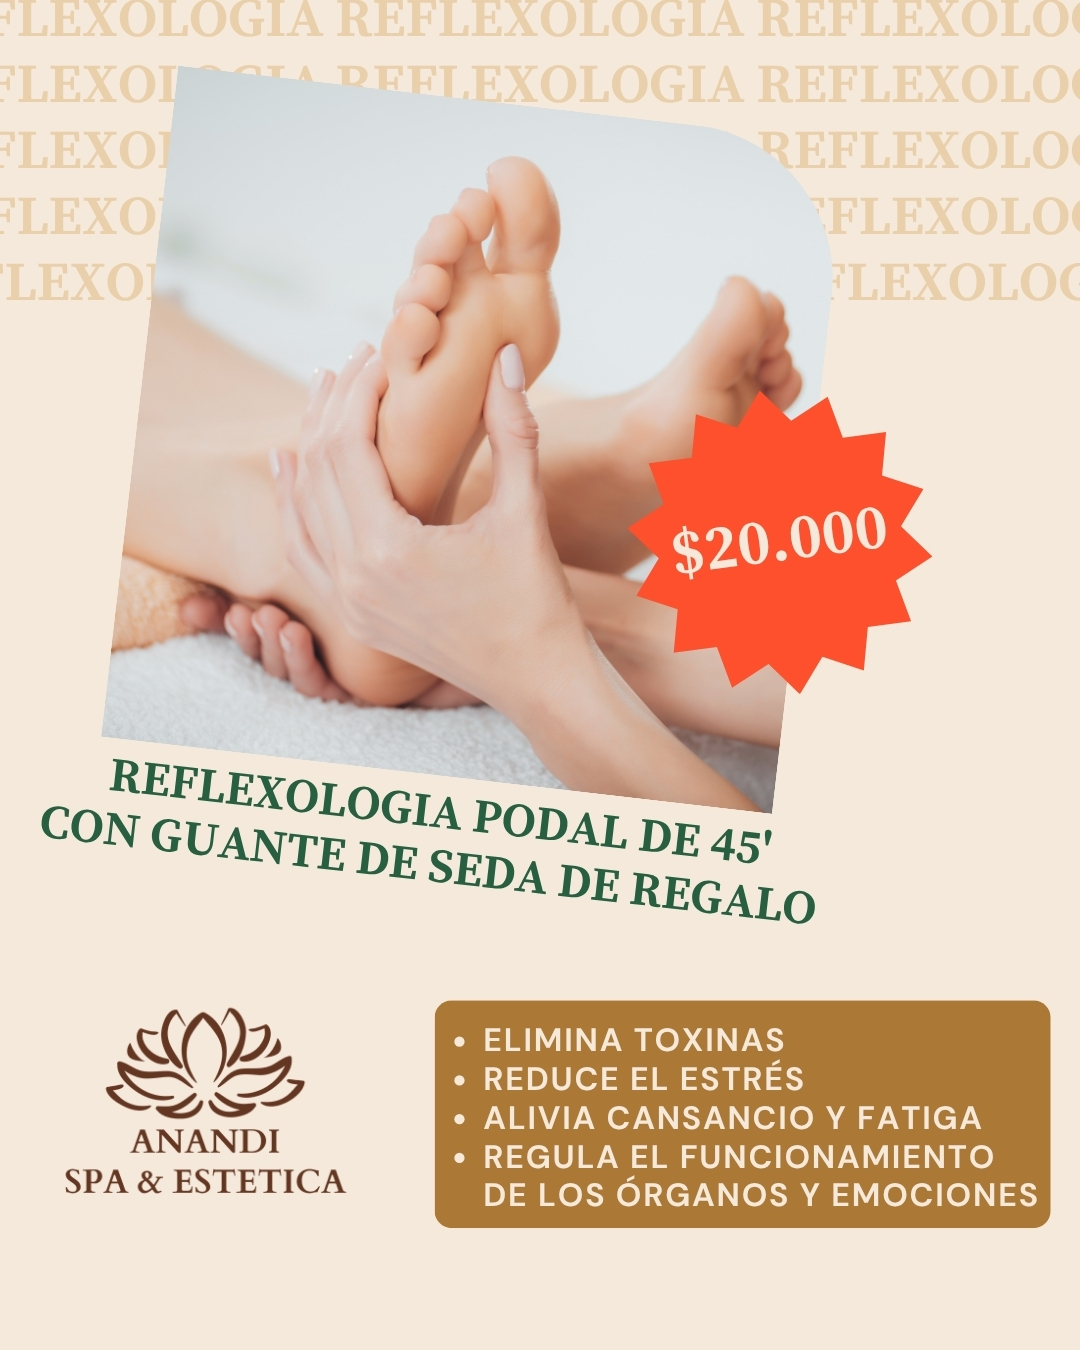
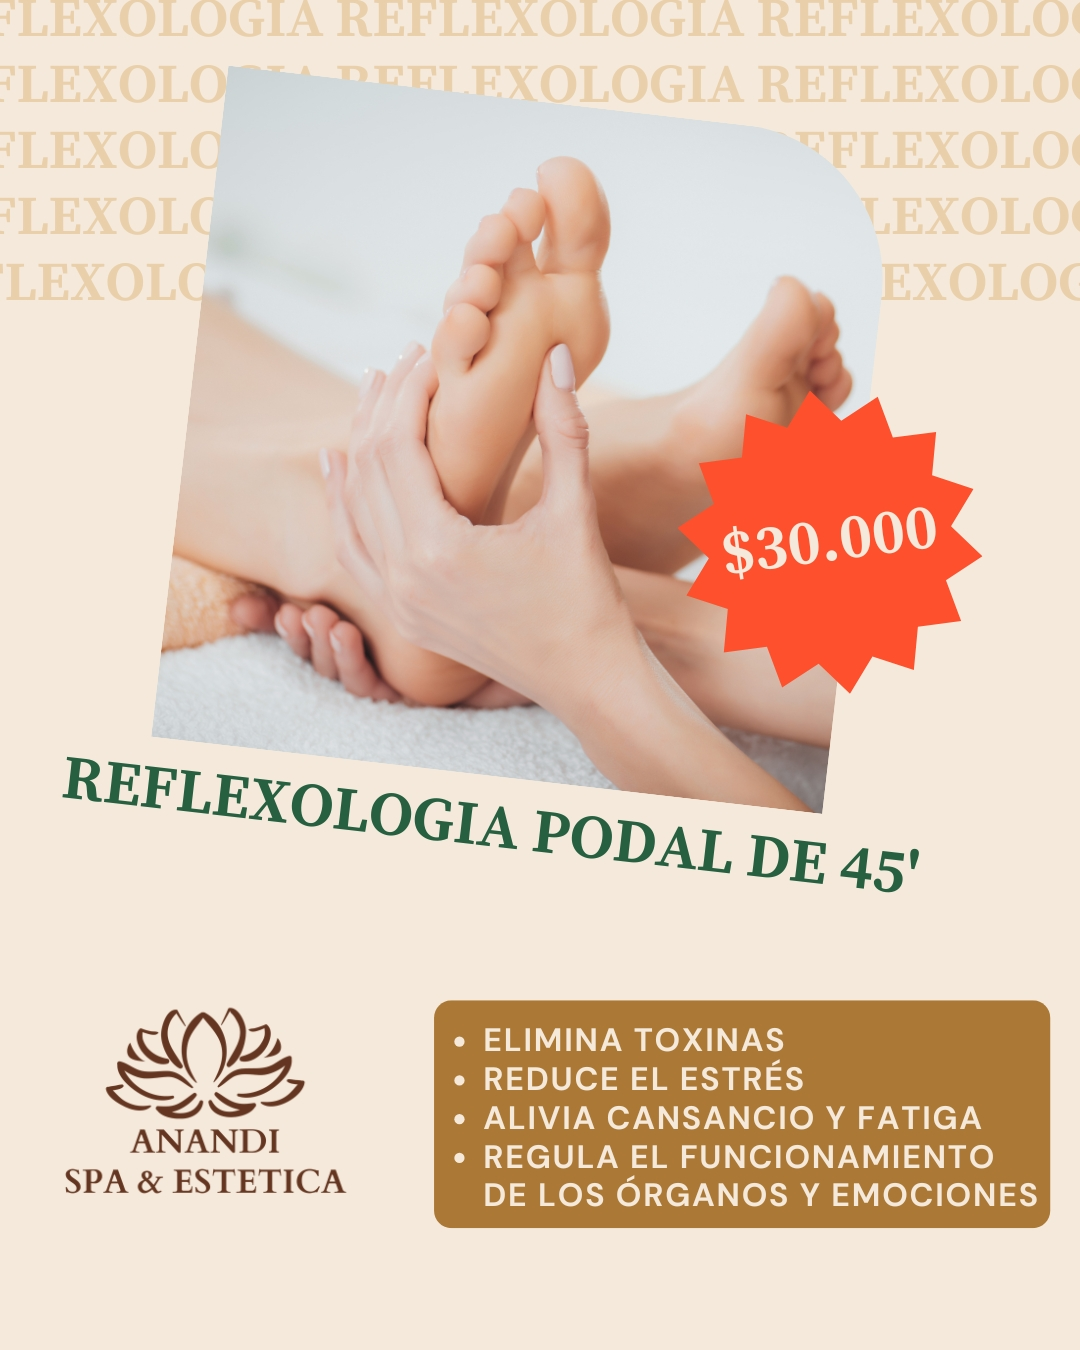
cambio promo reflexologia

Changed region(s): [[0.0306, 0.0311, 0.9167, 0.6844], [0.275, 0.3733, 0.3361, 0.4044]]

diff --git a/catalogo.html b/catalogo.html
@@ -1727,10 +1727,9 @@
                             </h3>
                             <p style="color: #666; margin-bottom: 20px; line-height: 1.8;">
                                 ✓ Sesión de 45 minutos<br>
-                                ✓ Guante de seda de regalo 🎁
                             </p>
                             <div style="margin-bottom: 20px; text-align: center;">
-                                <span style="font-size: 1.8rem; font-weight: 700; color: var(--primary);">$20.000</span>
+                                <span style="font-size: 1.8rem; font-weight: 700; color: var(--primary);">$30.000</span>
                             </div>
                             <a href="https://wa.me/5492615104019?text=Hola! Me interesa la Reflexología podal"
                                 class="whatsapp-btn" target="_blank" style="width: 100%; justify-content: center;">
